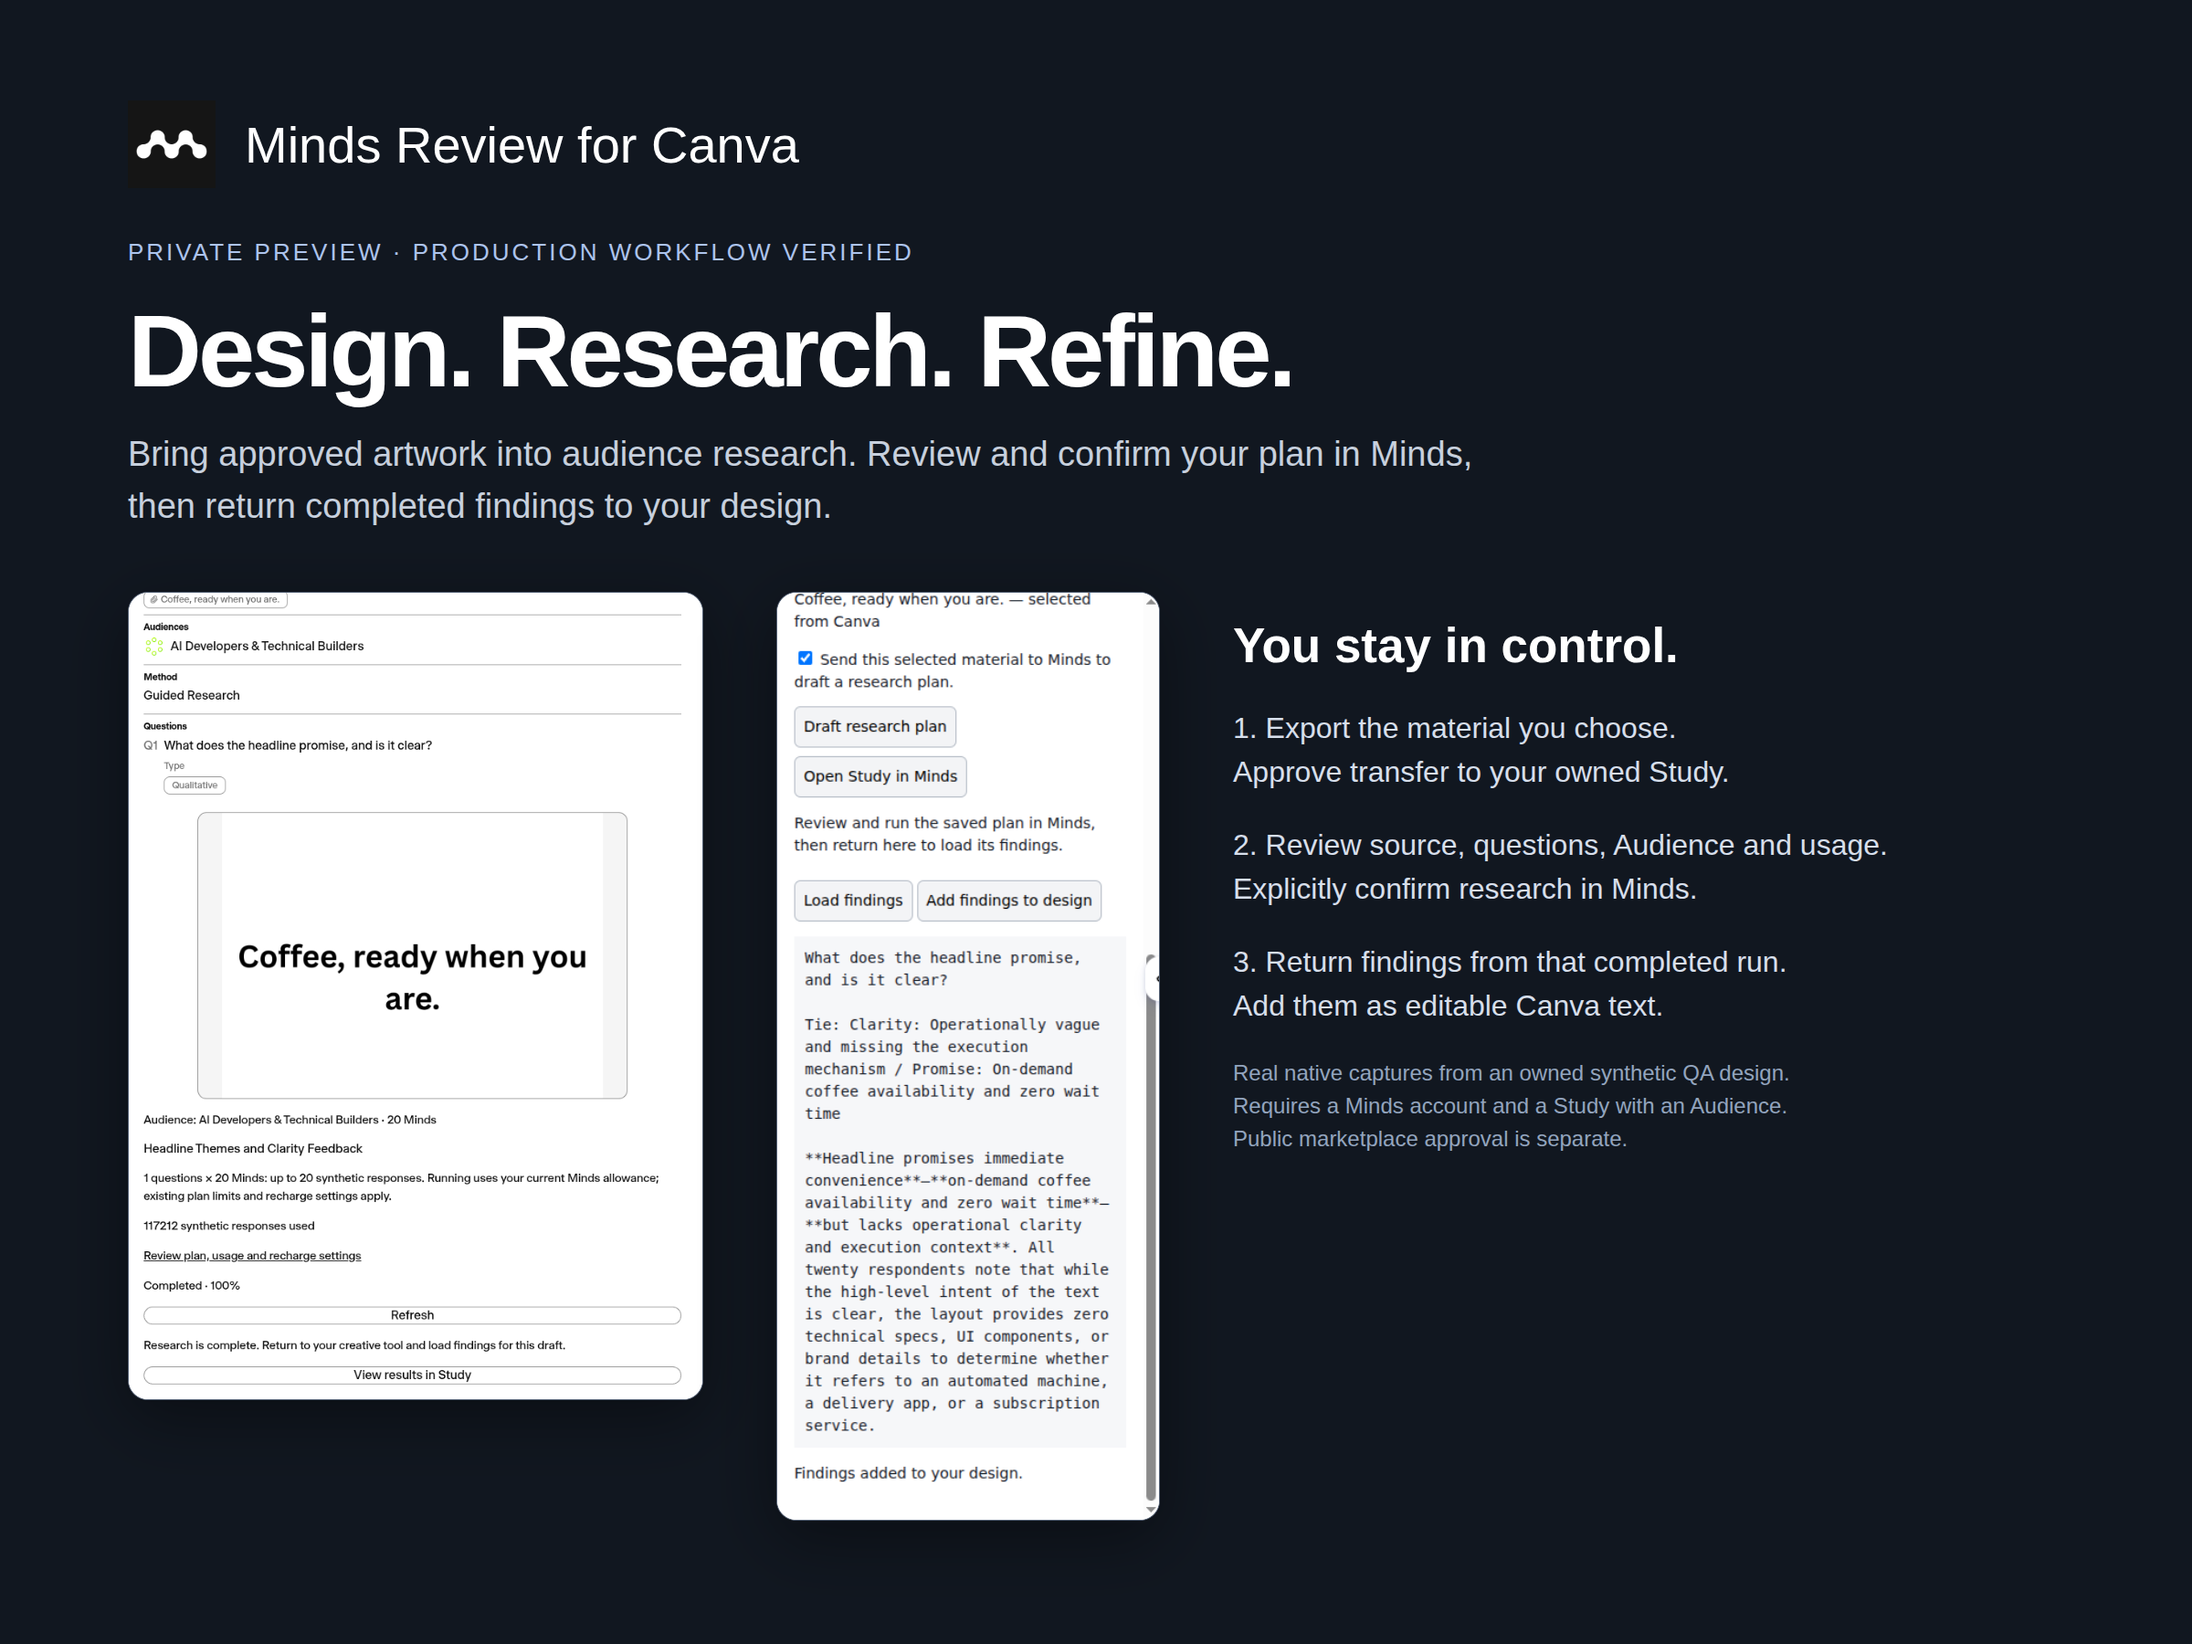
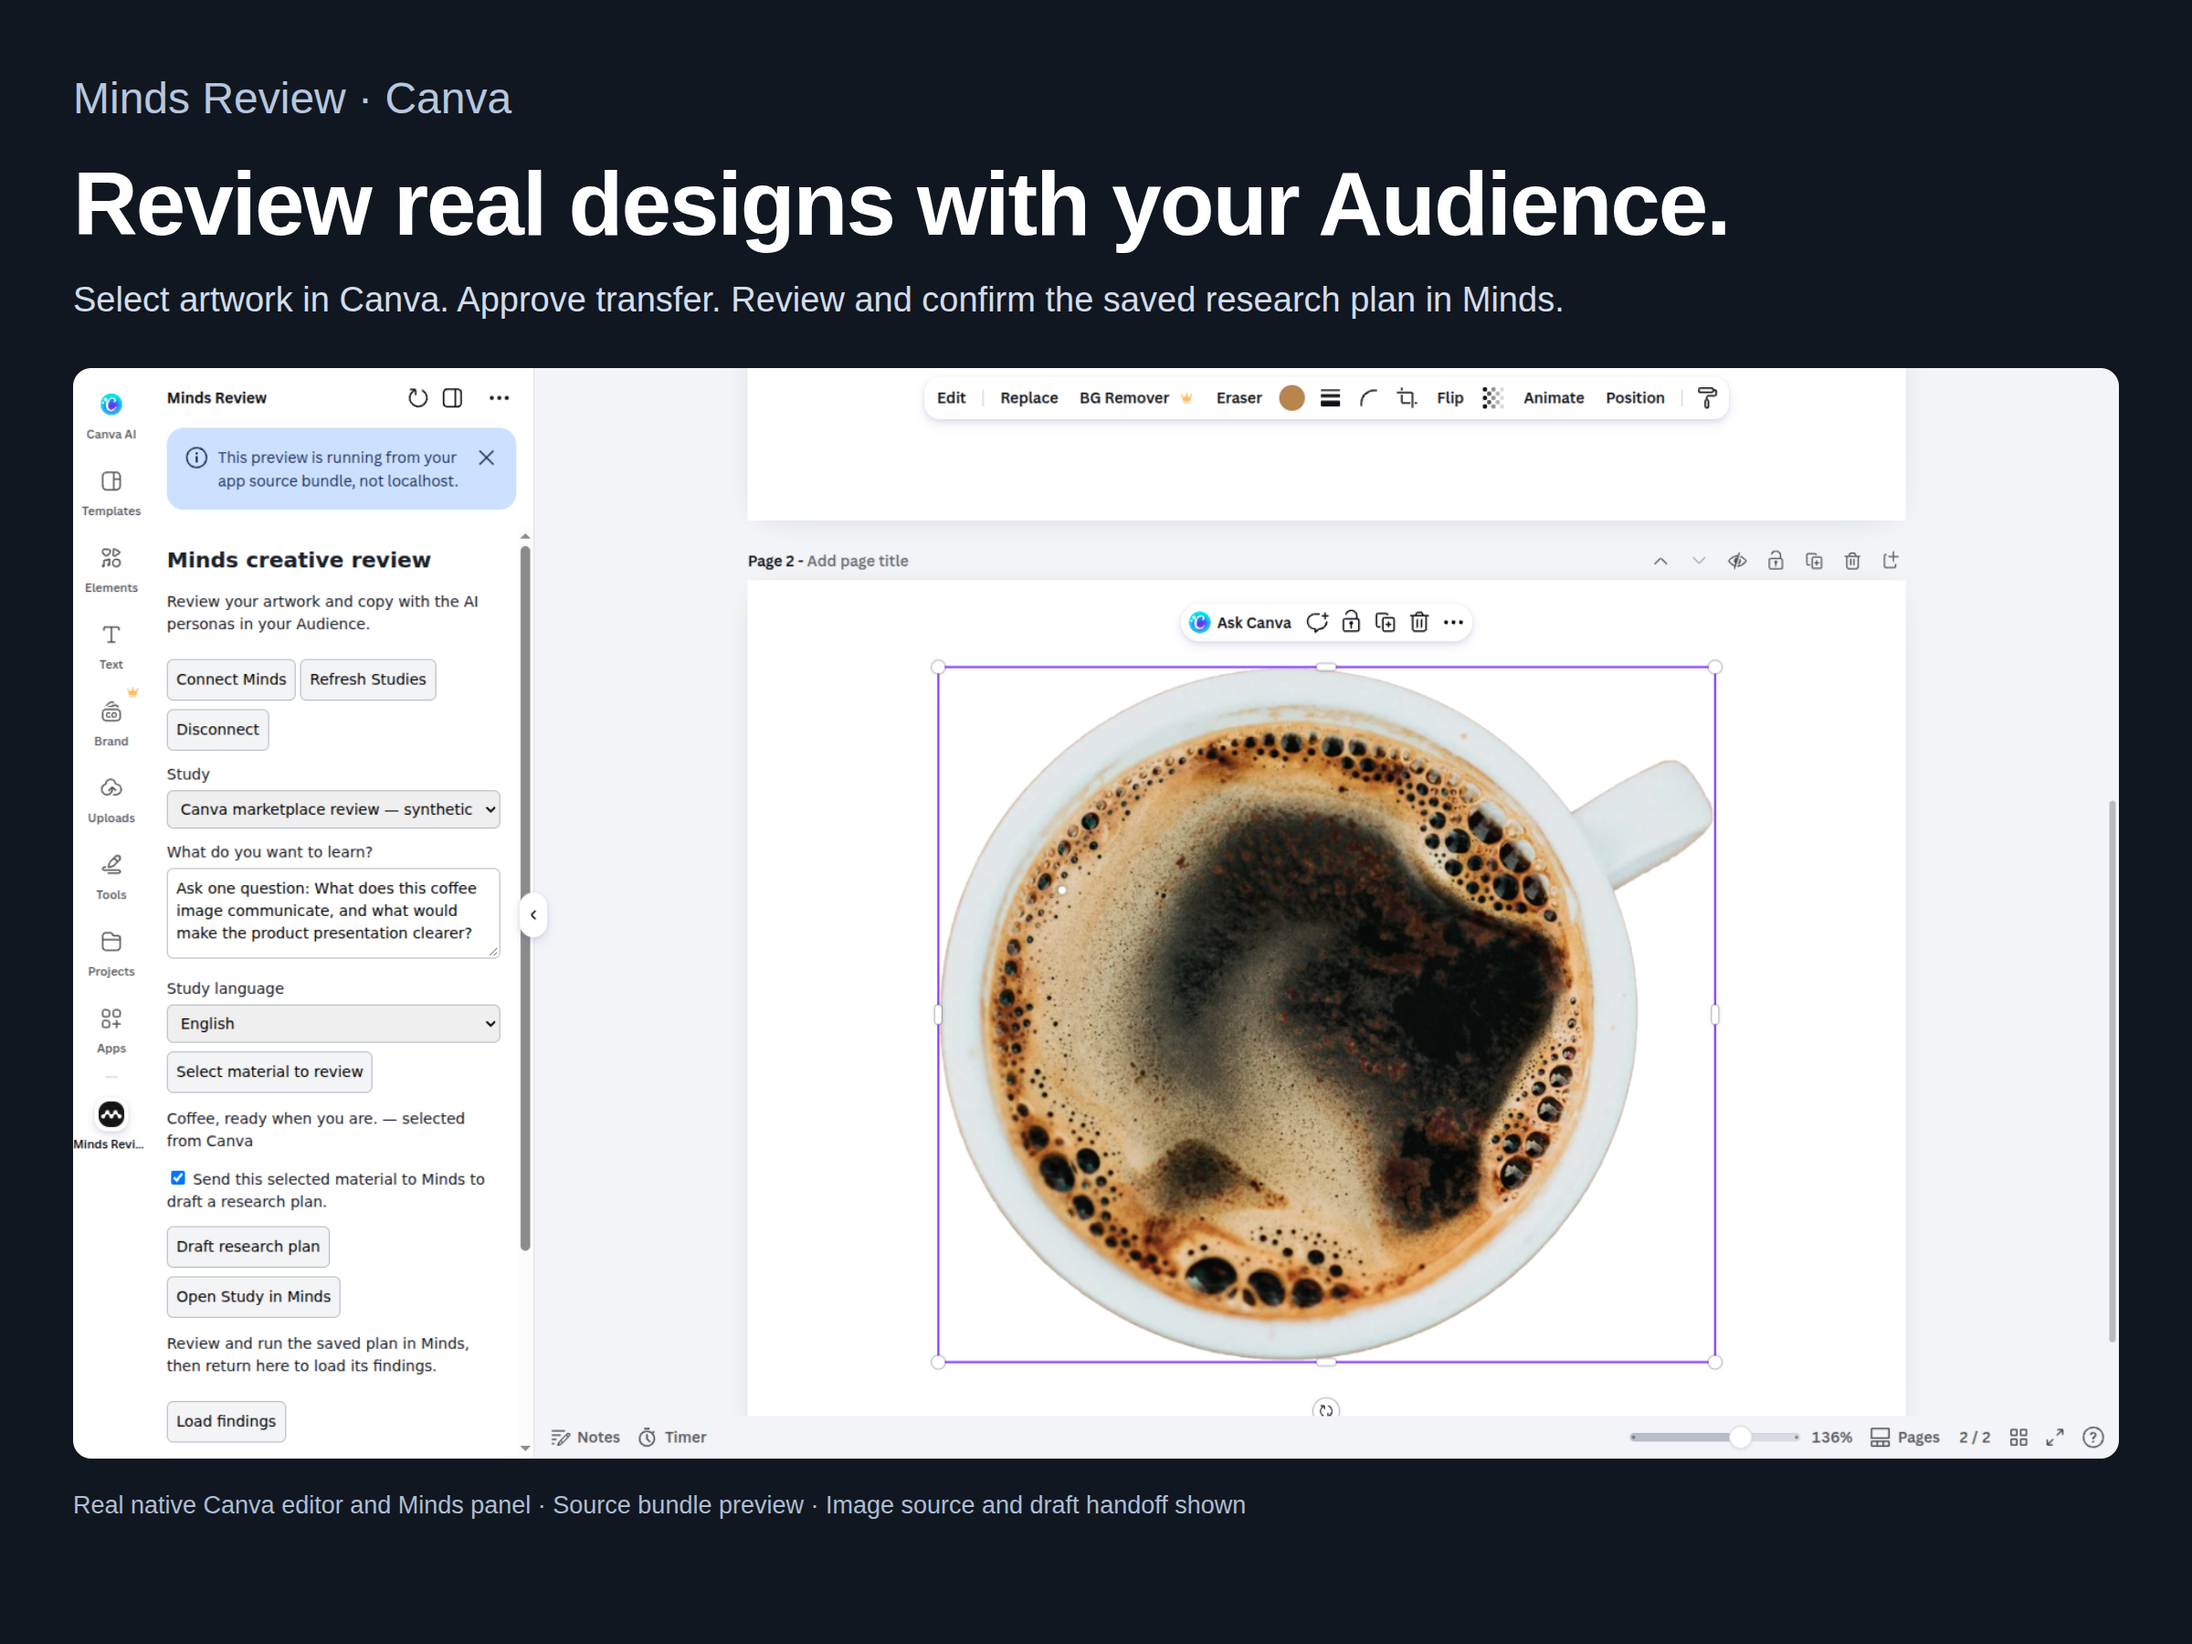
docs: show native platform photographs and reviewer workflow state (#46)

diff --git a/apps/creative-marketplaces/assets/REVIEW-MEDIA.md b/apps/creative-marketplaces/assets/REVIEW-MEDIA.md
@@ -1,7 +1,9 @@
 # Creative marketplace review media — 1 October 2026
 
-`canva-featured-workflow-2026-10-01.png` (2400×1800) and `express-featured-workflow-2026-10-01.png` (1360×800) are designed listing layouts containing genuine sanitized native production captures. They are clearly marked private preview and distinguish implemented workflow from public approval. These layouts are not represented as unedited full-host screenshots. The underlying captures and production receipts are in `../qa/production-2026-10-01/`.
+The current Canva featured image is 2400×1800; Express is exactly 1360×800. Both are designed listing layouts containing genuine native platform editor captures with stock coffee photographs, the Minds panel, approved source transfer and saved-plan handoff. They replace the earlier panel-only layouts. They do not represent completed image research or public marketplace availability. Native image files, privacy crops, dimensions and hashes are recorded in `../qa/production-2026-10-01/native-image-captures.json`.
 
-`canva-workflow-walkthrough-2026-10-01.mp4` is a 40-second, 1920×1080 annotated walkthrough using those genuine native captures, with five steps: connect/select Study, export/approve transfer, inspect and explicitly confirm the saved plan in Minds, return/insert exact-run findings, and recovery without duplicate research. It is clearly labeled as a capture-based walkthrough rather than continuous live interaction. It has no audio. No credential, account chrome, private installation claim link or unrelated customer material is included.
+`canva-workflow-walkthrough-2026-10-01.mp4` remains a 40-second, 1920×1080 annotated, capture-based walkthrough of the previously completed synthetic headline workflow. It is complementary evidence, not a continuous recording of the new photograph fixture. It has no audio. The original completed research receipts and native returned findings remain in the production QA directory.
 
-Canva's native developer portal saved its current bundle, description, testing instructions, security disclosures, featured artwork and public legal-entity/contact/address/register details. The walkthrough link, verified public company/contact details, submission declarations and authentication requirement are saved. Native App status reports two remaining requirements: company verification documentation/details and dedicated reviewer login. Adobe's public 0.1.11 draft saved corrected descriptions/release notes and truthful AI/payment disclosures. The provider requires exactly 1360×800. The earlier portrait and 2400×1350 attempts did not establish acceptance. The corrected 1360×800 artwork finished uploading, loaded from a non-blob server URL, and persisted with its exact dimensions after a full page reload. Public trader contact/address fields and country selections are saved. D-U-N-S is marked optional in the native form. Dedicated reviewer access and Adobe public review remain pending.
+Canva’s company registration documentation, exact public company details and declarations are prepared. Dedicated production reviewer login is saved in its encrypted native fields. Adobe’s descriptions, package, AI/payment/trader fields, corrected keywords and image are prepared; its required reviewer notes accept testing credentials but do not persist with saved drafts. Enter credentials privately from the vault immediately before submission, and never capture or publish those fields.
+
+Both isolated reviewer accounts have owned Studies with public 20-Mind Audiences, and actual native login/OAuth/source-transfer/draft preparation passed. Their new free accounts have zero research allowance. A requested owner decision on test credits remains pending. No public submission or listing approval is claimed.

diff --git a/apps/creative-marketplaces/qa/production-2026-10-01/README.md b/apps/creative-marketplaces/qa/production-2026-10-01/README.md
@@ -7,3 +7,15 @@ The fixture was an owned synthetic headline design and a 20-Mind Audience, with 
 Screenshots are genuine native browser captures. The Minds screenshots are lossless pixel-identical crops of the original 1920×1080 capture, excluding unrelated sidebar/account details. Host findings panels are native viewport clips. No credential, signed source link, private installation claim link or session export is included.
 
 Zapier 1.2.0 separately passed real hosted authentication, owned Study creation, saved-plan preview, and empty results before confirmation. It has not passed a complete native Zap editor run. Figma Review still needs a genuine Desktop plugin ID and native host acceptance; the existing Figma import is a different integration. GenStudio requires an entitled Adobe organization. Public marketplace approval remains separate for all candidates.
+
+## Native photograph captures and isolated reviewers
+
+The additional `canva-native-image-workflow.png` and `express-native-image-workflow.png` show real editor canvases, native stock coffee photographs and the Minds panels together. Canva exports only page 2 as PDF; Express exports its approved current page as PNG. Both transferred to separate reviewer-owned Studies and prepared saved drafts. The account toolbars are excluded. `native-image-captures.json` records dimensions and hashes. These captures demonstrate image source and draft preparation, not completed image research; the earlier completed headline fixtures remain separate.
+
+Two dedicated plus-address reviewer accounts were created through the production signup, confirmed through their actual email links and verified by native login. Each has a private owned Study with a public 20-Mind Audience. Both passed native host OAuth and can select only accessible Studies. New free accounts have zero research allowance. The owner has been asked to decide a 100-credit test allowance for each; no allowance or billing change was made.
+
+Canva accepted a private company registration extract whose entity, register and registered address matched the existing public company details. Its encrypted reviewer credential fields persisted across reload. Developer declarations require native blur to persist; clicking and immediately navigating is insufficient. The native portal now offers submission. Public submission remains pending reviewer execution allowance.
+
+Adobe’s over-length keywords were corrected. Its Notes to reviewer is required despite the Spectrum host marking `required:false`; the provider documents this as its testing-credential channel. Credentials are supplied only from the dedicated encrypted vault at runtime. Those notes do not persist with Save draft and exit, so re-enter them immediately before a valid submission, without screenshots or logs. Public submission remains pending the reviewer allowance.
+
+Figma’s installed Mac mini Desktop app still needs genuine plugin registration; an actual ApplicationServices read returned accessibility trust false. No permission boundary was bypassed. GenStudio still needs an entitled Adobe organization. Zapier still needs two additional genuine users with live Zaps; plus-address accounts were not used to manufacture public qualification.
